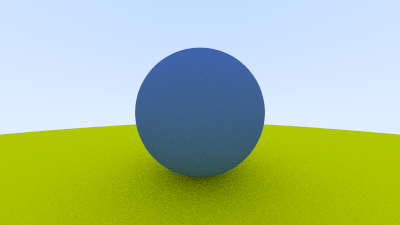
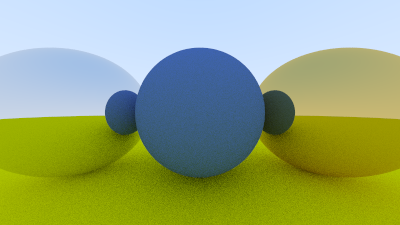
Metal

diff --git a/src/main.rs b/src/main.rs
@@ -2,7 +2,7 @@ use std::rc::Rc;
 
 use rtiow::hittable::{Sphere, HittableList};
 use rtiow::vec3::Vec3;
-use rtiow::material::{Lambertian, Material};
+use rtiow::material::{Lambertian, Material, Metal};
 use rtiow::vec3::color::Color;
 
 // Handle configuration logic: 
@@ -27,11 +27,15 @@ fn main() {
   //Create the Materials  
   let material_ground: Rc<dyn Material> = Rc::new(Lambertian{albedo: Color::new(0.8, 0.8, 0.0)});
   let material_center: Rc<dyn Material> = Rc::new(Lambertian{albedo: Color::new(0.1, 0.2, 0.5)});
+  let material_left: Rc<dyn Material> = Rc::new(Metal{albedo: Color::new(0.8, 0.8, 0.8)});
+  let material_right: Rc<dyn Material> = Rc::new(Metal{albedo: Color::new(0.8, 0.6, 0.2)});
 
   //Create the World: we must place hittable objects into the scene  
   let mut world: HittableList = HittableList::new_empty();
   world.add(Rc::new(Sphere::new(Vec3::new(0.0, 0.0, -1.0), 0.5, material_center.clone())));
   world.add(Rc::new(Sphere::new(Vec3::new(0.0, -100.5, -1.0), 100.0, material_ground.clone())));
+  world.add(Rc::new(Sphere::new(Vec3::new(-1.0, 0.0, -1.0), 0.5, material_left.clone())));
+  world.add(Rc::new(Sphere::new(Vec3::new(1.0, 0.0, -1.0), 0.5, material_right.clone())));
   
   // eprint!("Starting render\n");
   rtiow::render(&mut image_buffer, &world, 100, 50);

diff --git a/src/vec3.rs b/src/vec3.rs
@@ -65,9 +65,10 @@ impl Vec3{
             }
         }
     }
-
+    
     pub fn random_unit_vector() -> Vec3 {
         Vec3::unit_vector(&Vec3::random_in_unit_sphere())
+        //Vec3::unit_vector(&Vec3::new_random_in_range(-1.0, 1.0))
     }
 
     pub fn random_on_hemisphere(normal :&Vec3) -> Vec3 {
@@ -98,6 +99,13 @@ impl Vec3{
             y: u.z*v.x - u.x*v.z,
             z: u.x*v.y - u.y*v.x,
         }
+    }
+
+    pub fn reflect(vector: &Vec3, normal: &Vec3) -> Vec3 {
+        //We need to dereference the &Vec3 to do vector arithmetic
+        // Vec3 values are copied, so original owners retain ownership 
+        // of their Vec3 values 
+        *vector - 2.0 * Vec3::dot(vector, normal) * *normal
     }
 
     pub fn unit_vector(u: &Vec3) -> Vec3 {

diff --git a/src/material.rs b/src/material.rs
@@ -37,3 +37,22 @@ impl Material for Lambertian {
         (self.albedo, scattered)   
     }
 }
+
+#[derive(Clone, Copy, Debug)]
+pub struct Metal {
+    pub albedo: Color,
+}
+
+impl Metal {
+    pub fn new(albedo: Color) -> Self {
+        Metal { albedo } 
+    }
+}
+
+impl Material for Metal {
+    ///Metal material reflect the incoming rays about the hit point normal
+    fn scatter(self: &Self, r_in: &Ray, hit_record: &HitRecord) -> (Color, Ray) {
+        let reflected = Vec3::reflect(r_in.direction(), &hit_record.normal);
+        (self.albedo, Ray::new(hit_record.p, reflected))
+    }
+} 
